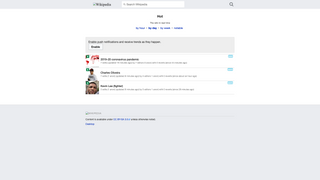
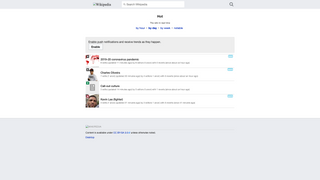
Allow mobile screenshots

diff --git a/screen.js b/screen.js
@@ -15,10 +15,13 @@ projects.forEach((p) => {
     if (url.indexOf('/') === 0) {
         url = `https://jdlrobson.com${url}`;
     }
+    if (p.path) {
+        url += p.path;
+    }
     console.log(`Building screenshot for ${url}`);
     (async () => {
         await new Pageres(options)
-            .src(url, [`1920x1080`],
+            .src(url, [p.mobile ? '375x812' : '1920x1080' ],
                 {filename, crop: true, script: p.script}
             )
             .dest(DIR)
